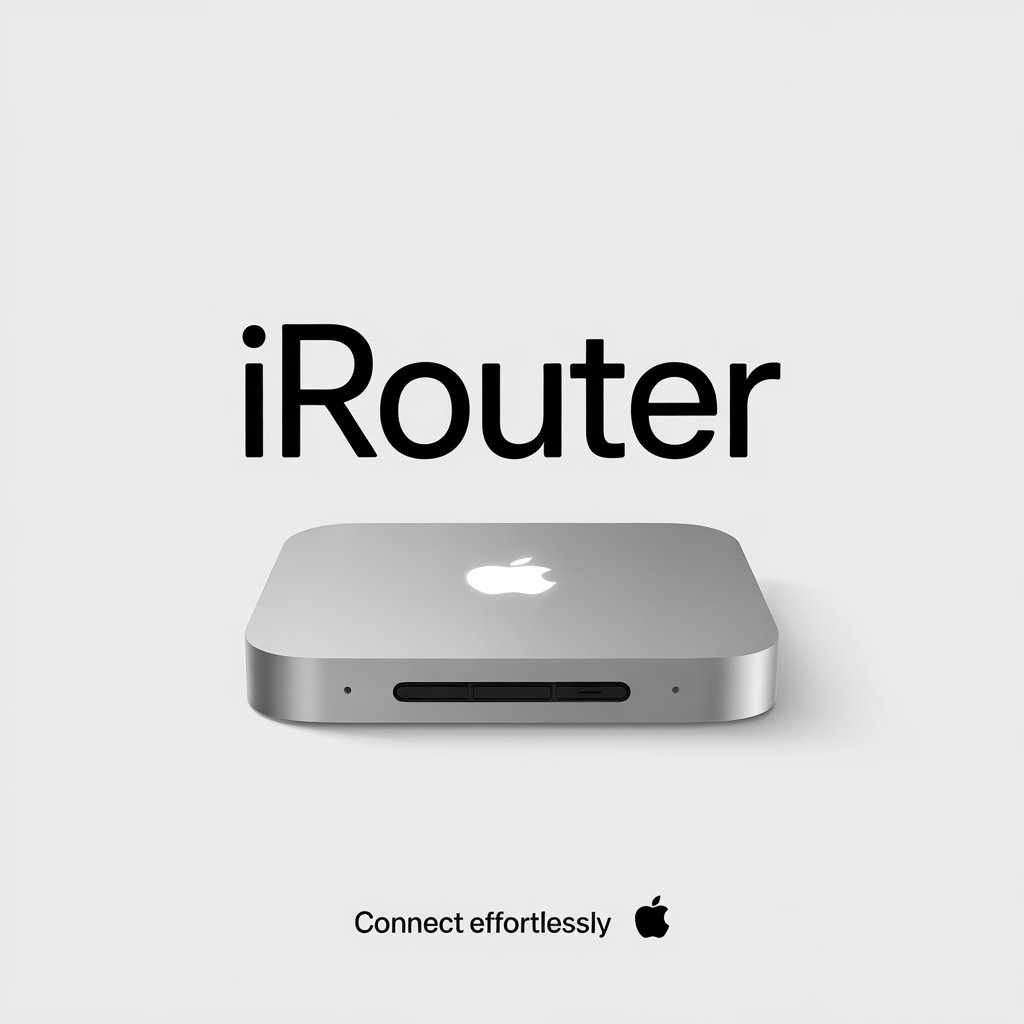
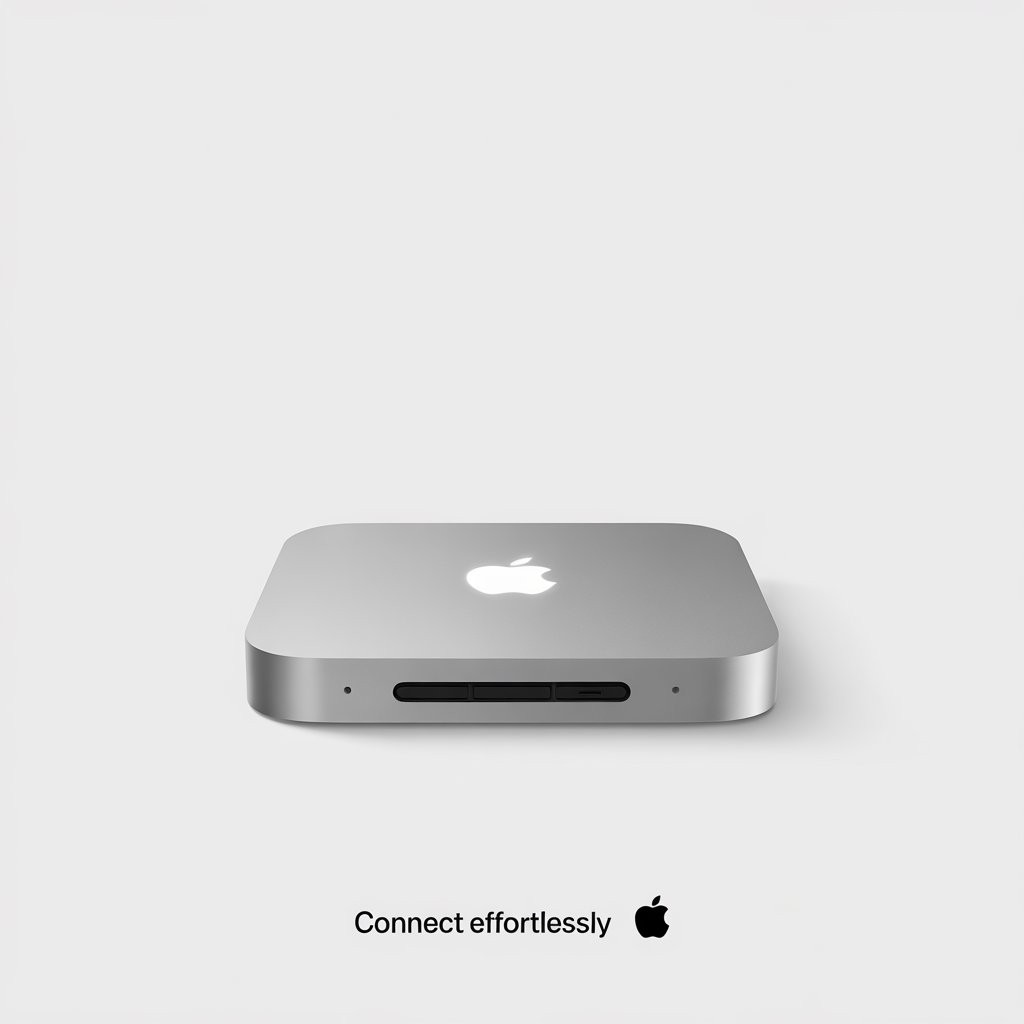
Add files via upload

Changed region(s): [[0.2188, 0.3125, 0.7812, 0.4688]]

diff --git a/style.css b/style.css
@@ -7,7 +7,7 @@
     padding: 0;
     margin: 0;
     font-family:Apple;
-    /* background-color: black; */
+    background-color: rgb(236, 236, 236); 
 }
 
 #main{
@@ -20,7 +20,7 @@
     position: relative;
     height: 100vh;
     width: 100vw;
-    background-color: rgb(255, 255, 255);
+    background-color: rgb(236, 236, 236);
     /* background-color: white; */
 }
 
@@ -28,18 +28,18 @@
     position: relative;
     width: 100vw;
     height: 100vh;
-    background-color: white;
+    background-color: rgb(236, 236, 236);
 }
 
 /* navbar1 */
 nav{
     height: 40px;
-    background-color: rgb(21, 20, 20);
+    background-color: rgb(236, 236, 236);
     width: 100vw;
     display: flex;
     justify-content: space-evenly;
     align-items: center;
-    color: white;
+    color: black;
     position: fixed;
     z-index: 99;
     padding-left: 14px;
@@ -53,29 +53,33 @@ nav{
 .nav-items a{
     text-decoration: none;
     padding: 8px;
-    color: rgba(255, 255, 255, 0.241);
+    color: black;
+    background-color: rgb(236, 236, 236);
 }
 
 .nav-items a:hover{
-    color: white;
+    color: rgb(0, 0, 0);
+    background-color: rgb(236, 236, 236);
 }
 
 .nav-items i{
     padding: 8px;
-    color: rgba(255, 255, 255, 0.241);
+    color: black;
     cursor: pointer;
+    background-color: rgb(236, 236, 236);
 }
 
 .nav-items i:hover{
-    color: white;
+    color: rgb(0, 0, 0);
+    background-color: rgb(236, 236, 236);
 }
 
 /* navbar1 end */
 
 /* nav2 */
 .nav2{
-    color: white;
-    background-color: #1d1d1f;
+    color: black;
+    background-color: rgb(236, 236, 236);
     height: 45px;
     margin: auto;
     width: 100vw;
@@ -107,9 +111,9 @@ nav{
 /* end */
 /* hero-section img */
 .hero-section{
-    height: 80vh;
+    height: 100vh;
     width: 100vw;
-    color: rgb(255, 255, 255);
+    color: rgb(0, 0, 0);
     /* display: flex;
     justify-content: center;
     flex-direction: column; */
@@ -165,7 +169,7 @@ nav{
 }
 
 .text1{
-    color: white;
+    color: black;
 }
 
 .links{

diff --git a/index.html b/index.html
@@ -65,6 +65,7 @@
             <div class="hero-section-img">
                 <img src="Assests/iphone15black.jpeg" alt="">
                 <div class="hero-section-p hero-p">
+                    <h2>iRouter</h2>
                     <h3>So fast. So light. So Pro.</h3>
                     <h4>
                         <ul>
